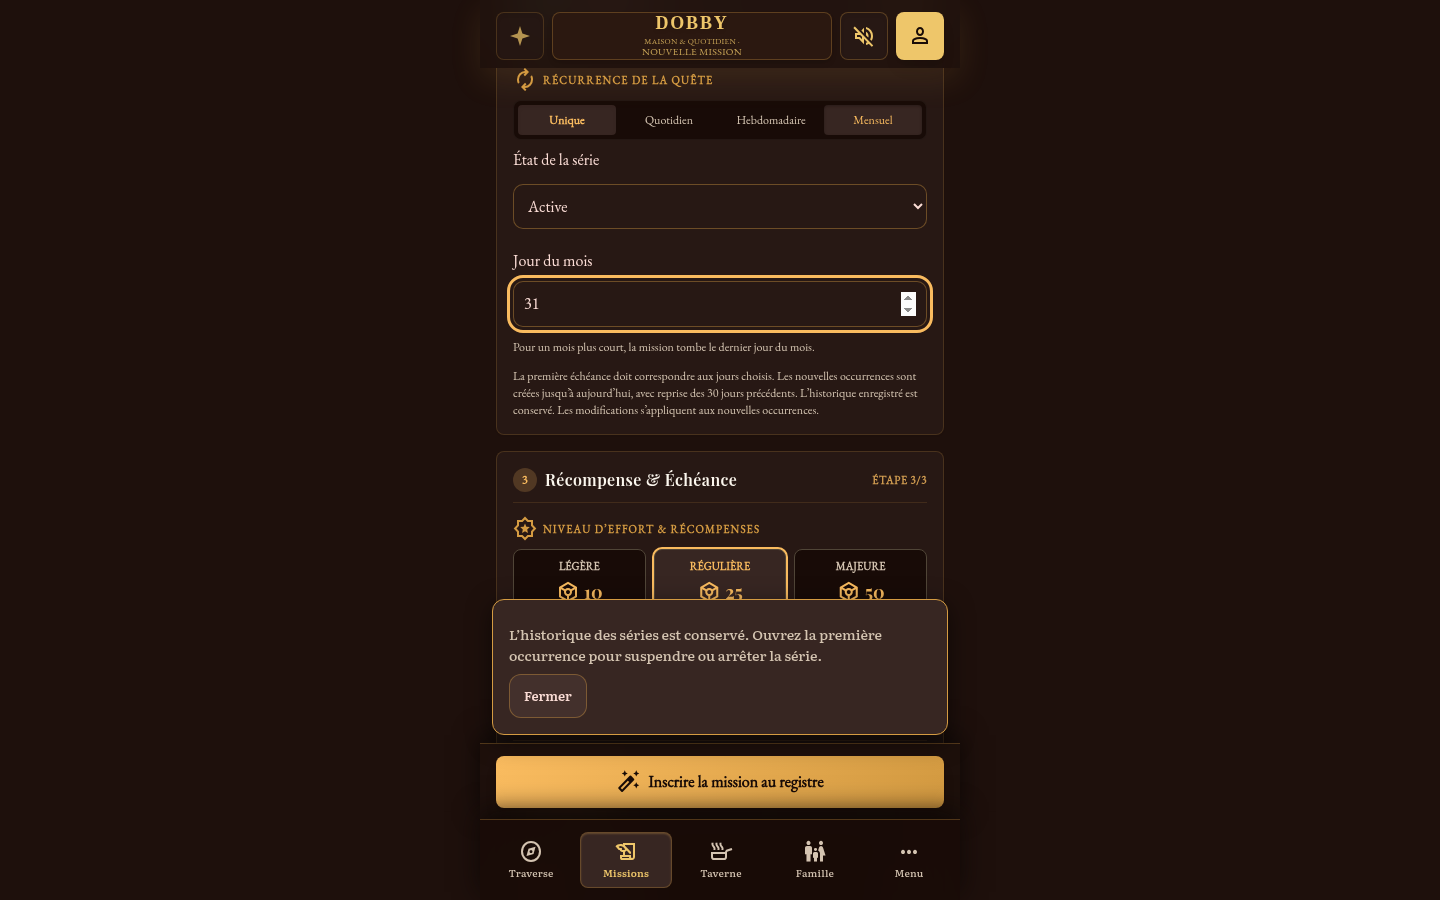
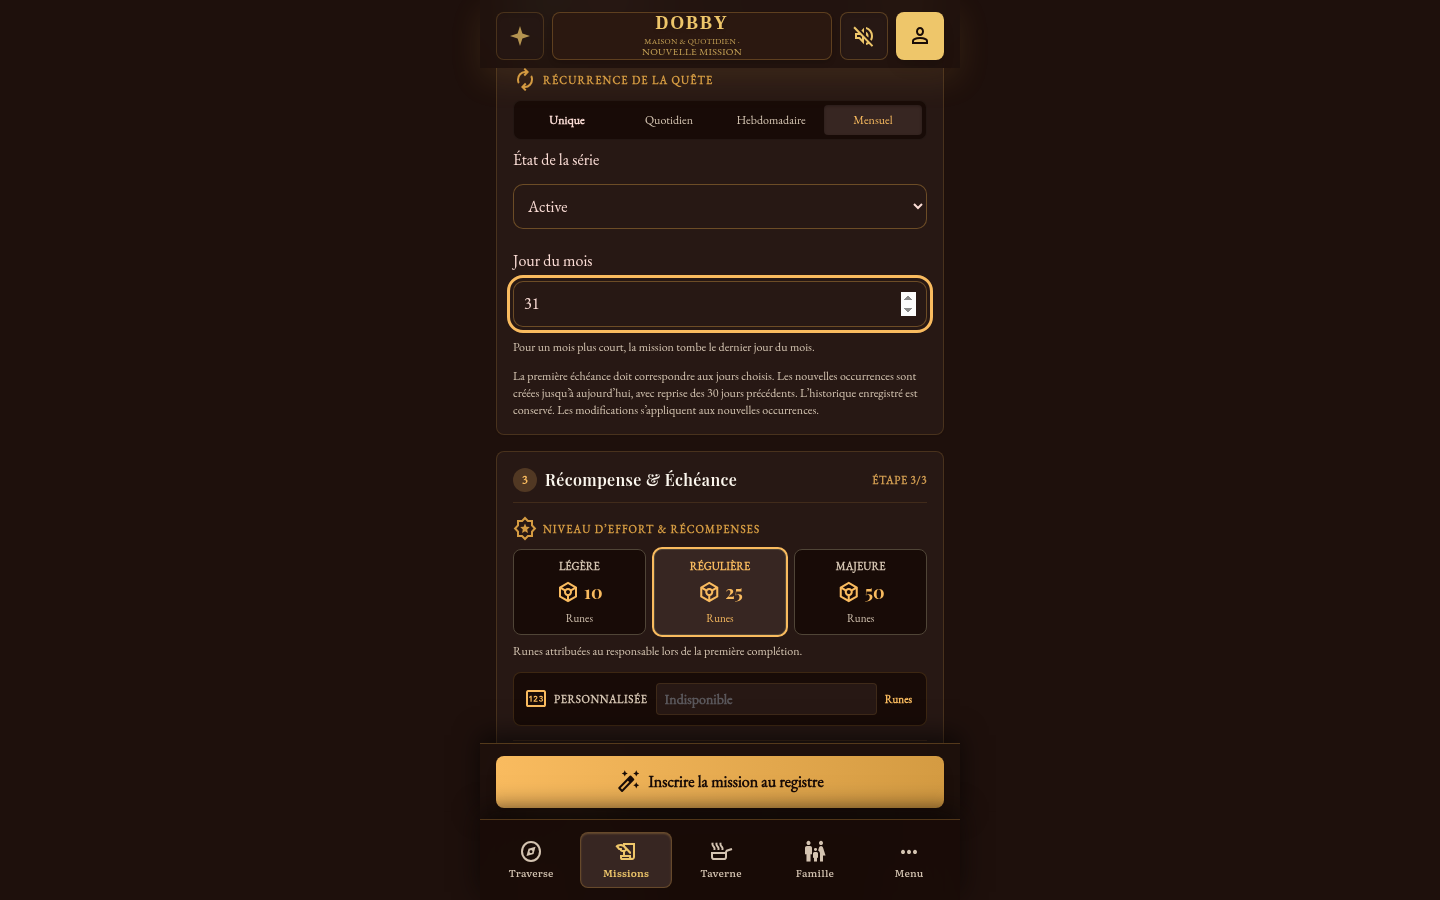
fix(review): garder une seule récurrence visuellement sélectionnée

Changed region(s): [[0.3438, 0.6533, 0.6562, 0.84], [0.3438, 0.0933, 0.4375, 0.1556]]

diff --git a/essai-stitch-v7/tools-register.js b/essai-stitch-v7/tools-register.js
@@ -44,7 +44,7 @@
   const state=field(recurrence,'État de la série','e04-series-state','recurrenceState','','select');for(const[value,label]of [['active','Active'],['paused','Suspendue'],['stopped','Arrêtée définitivement']]){const option=new Option(label,value);state.add(option);}state.value=rule?.state||'active';
   recurrence.append(days,monthWrapper,el('p','La première échéance doit correspondre aux jours choisis. Les nouvelles occurrences sont créées jusqu’à aujourd’hui, avec reprise des 30 jours précédents. L’historique enregistré est conservé. Les modifications s’appliquent aux nouvelles occurrences.','e04-availability'));
   function recurrenceUI(){const value=frequency.value;for(const[b,index]of recurrences.map((b,index)=>[b,index])){b.setAttribute('aria-pressed',String(frequencies[index]===value));b.disabled=Boolean(row?.seriesId||row?.recurrence&&index===0||rule?.state==='stopped');}days.hidden=value!=='weekly';monthWrapper.hidden=value!=='monthly';state.parentElement.hidden=value==='unique';state.disabled=Boolean(row?.seriesId||rule?.state==='stopped');}
-  recurrences.forEach((b,index)=>{b.disabled=false;b.removeAttribute('title');b.classList.remove('bg-surface-container-high','text-primary','font-bold','shadow-sm');b.onclick=()=>{frequency.value=frequencies[index];recurrenceUI();};});
+  recurrences.forEach((b,index)=>{b.disabled=false;b.removeAttribute('title');b.classList.remove('bg-surface-container-high','text-primary','font-bold','shadow-sm','shadow-inner');b.onclick=()=>{frequency.value=frequencies[index];recurrenceUI();};});
   q('.recurrence-btn',assignment).parentElement.after(recurrence);recurrenceUI();
   if(row?.seriesId){recurrence.replaceChildren(el('p','Vous modifiez cette occurrence uniquement. Son état et ses runes sont indépendants.','e04-availability'),button('rg-mission-edit','Modifier ou arrêter la série',{record:row.seriesId}));for(const b of recurrences)b.disabled=true;}
   if(rule?.state==='stopped')recurrence.append(el('p','Cette série est arrêtée. Son historique reste consultable ; créez une nouvelle série pour recommencer.','e04-availability'));
